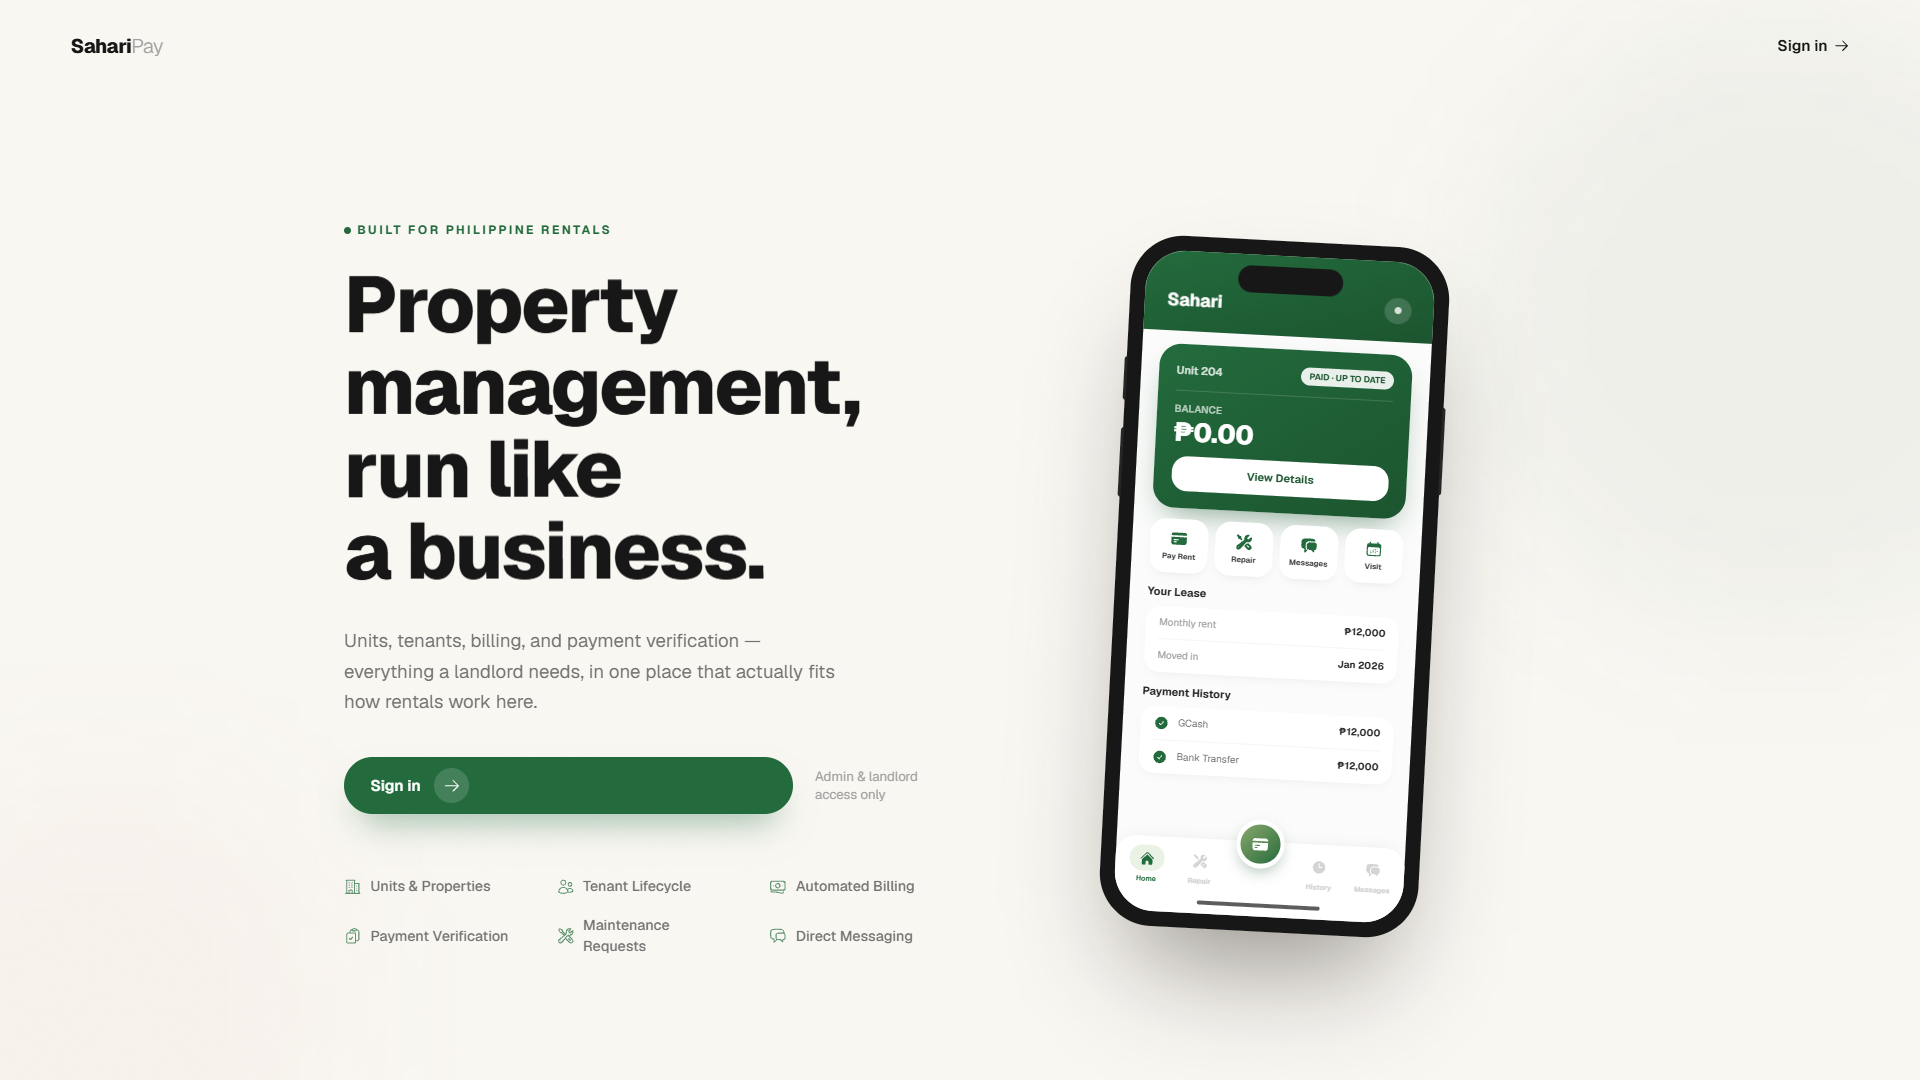
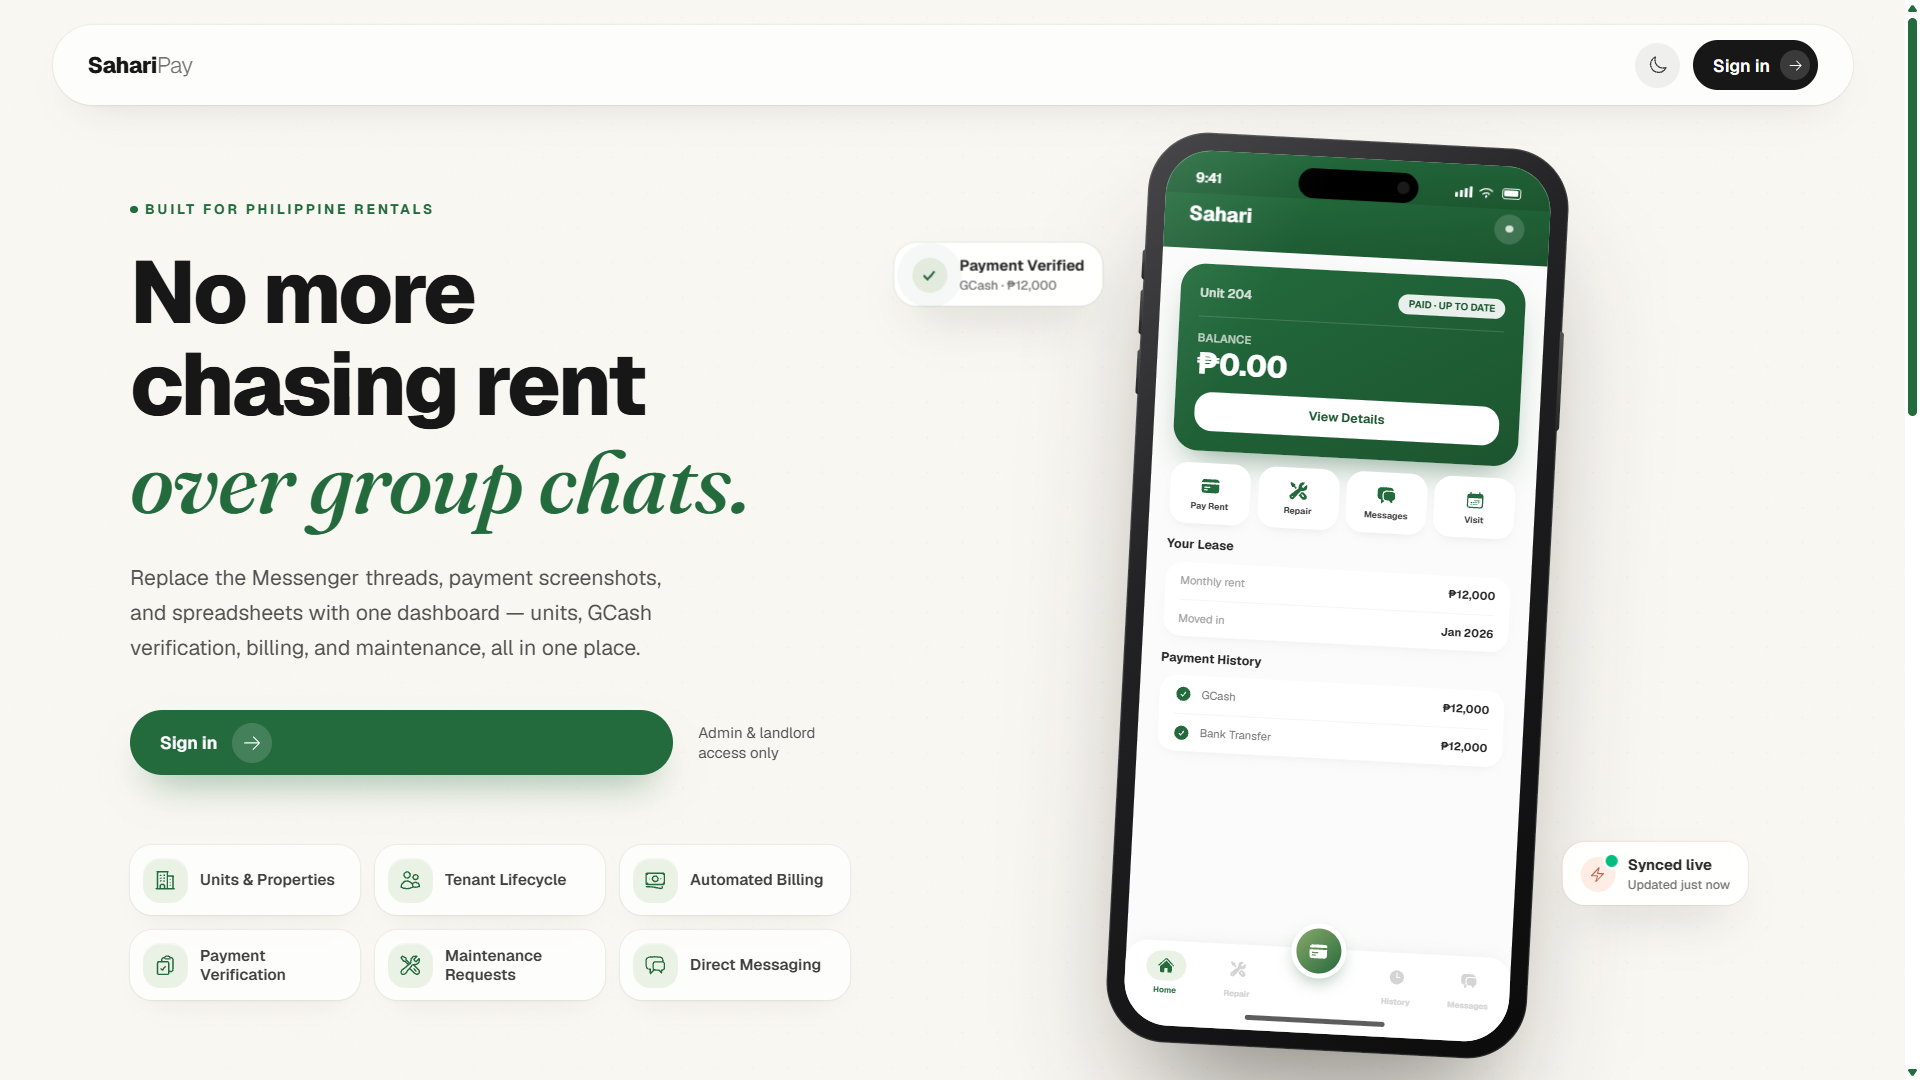
Sahari Pay: 8 landlord dashboard screens in the role tour, updated landing cover
Payment QR codes, bank account number and tenant emails are blurred.

diff --git a/src/lib/data.ts b/src/lib/data.ts
@@ -387,7 +387,7 @@ export const projects: Project[] = [
         id: "landlord",
         label: "Landlord",
         platform: "Web dashboard",
-        description: "For property owners and admins: units, tenants, billing and payment verification in one place.",
+        description: "For property owners and admins: units, tenants, billing, viewings, reports and tenant announcements in one dashboard.",
       },
       {
         id: "tenant",
@@ -399,6 +399,14 @@ export const projects: Project[] = [
     gallery: [
       { src: "/assets/images/projects/sahari-pay/web-landing-sahari.png", group: "landlord", kind: "desktop", title: "Landing page", alt: "The public site: what SahariPay does for landlords, with sign-in for admins." },
       { src: "/assets/images/projects/sahari-pay/web-signin-sahari.png", group: "landlord", kind: "desktop", title: "Admin sign-in", alt: "Sign-in for admins and landlords to manage units, tenants and payments." },
+      { src: "/assets/images/projects/sahari-pay/web-sahari-overview.png", group: "landlord", kind: "desktop", title: "Overview", alt: "Collected this month, outstanding balance, occupancy and overdue invoices, with a 14-day collections chart." },
+      { src: "/assets/images/projects/sahari-pay/web-units-sahari.png", group: "landlord", kind: "desktop", title: "Properties & units", alt: "Add properties and units with base rent, and set the landlord profile tenants see in the app." },
+      { src: "/assets/images/projects/sahari-pay/web-tenants-sahari.png", group: "landlord", kind: "desktop", title: "Tenants", alt: "Invite a tenant by email; assigning a unit creates the move-in invoice (advance rent + deposit) automatically." },
+      { src: "/assets/images/projects/sahari-pay/web-billing-sahari.png", group: "landlord", kind: "desktop", title: "Billing & payment channels", alt: "Invoice totals plus the GCash, bank transfer and Palawan details tenants pay through." },
+      { src: "/assets/images/projects/sahari-pay/web-viewings-sahari.png", group: "landlord", kind: "desktop", title: "Viewings & signings", alt: "Propose apartment viewings or lease signings and handle tenants' requests." },
+      { src: "/assets/images/projects/sahari-pay/web-reports-sahari.png", group: "landlord", kind: "desktop", title: "Financial reports", alt: "Export transactions to CSV or print a statement for any date range, computed server-side." },
+      { src: "/assets/images/projects/sahari-pay/web-announcements-sahari.png", group: "landlord", kind: "desktop", title: "Announcements", alt: "Broadcast a post to every tenant, or to one property or unit." },
+      { src: "/assets/images/projects/sahari-pay/web-advertisements-sahari.png", group: "landlord", kind: "desktop", title: "Home-screen banners", alt: "Sliding banners on the tenant app's home screen, optionally opening the appointment scheduler." },
       { src: "/assets/images/projects/sahari-pay/mob-signin-sahari.png", group: "tenant", kind: "mobile", title: "Sign in", alt: "Tenants sign in to pay rent and message their landlord." },
       { src: "/assets/images/projects/sahari-pay/mob-signup-sahari.png", group: "tenant", kind: "mobile", title: "Rental application", alt: "Sign-up with household, employment and government ID for landlord approval." },
       { src: "/assets/images/projects/sahari-pay/mobile-home.png", group: "tenant", kind: "mobile", title: "Home", alt: "Amount due, lease details and quick actions." },

diff --git a/src/lib/blur-placeholders.ts b/src/lib/blur-placeholders.ts
@@ -4,5 +4,5 @@ export const blurPlaceholders: Record<string, string> = {
[5 lines of base64/hex data omitted]
 };
